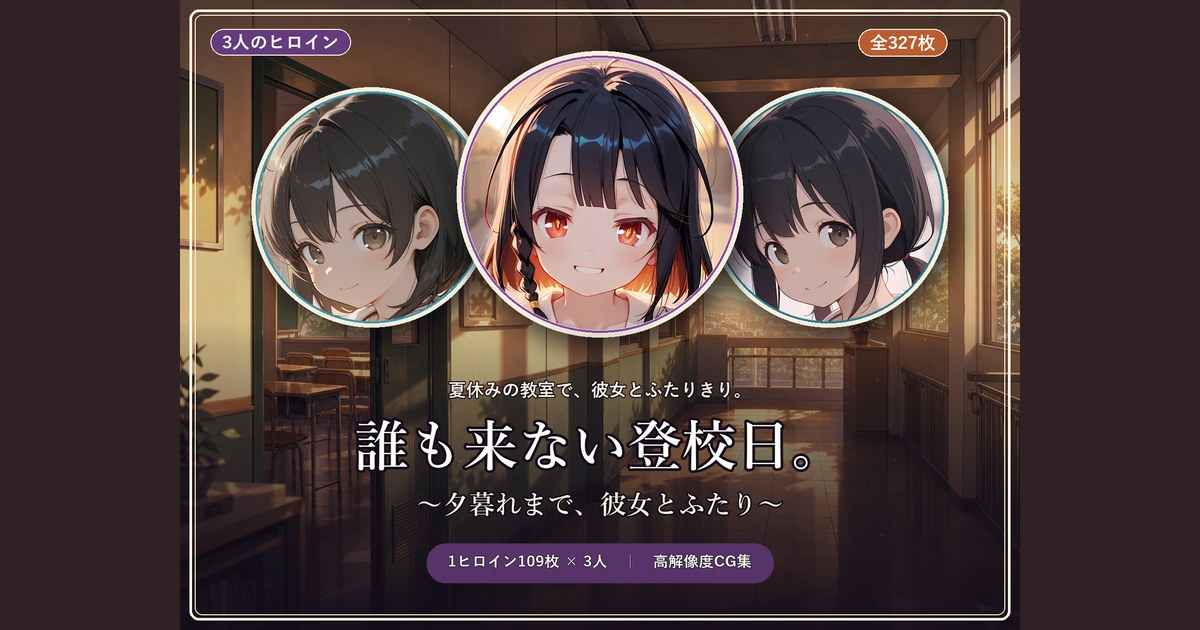
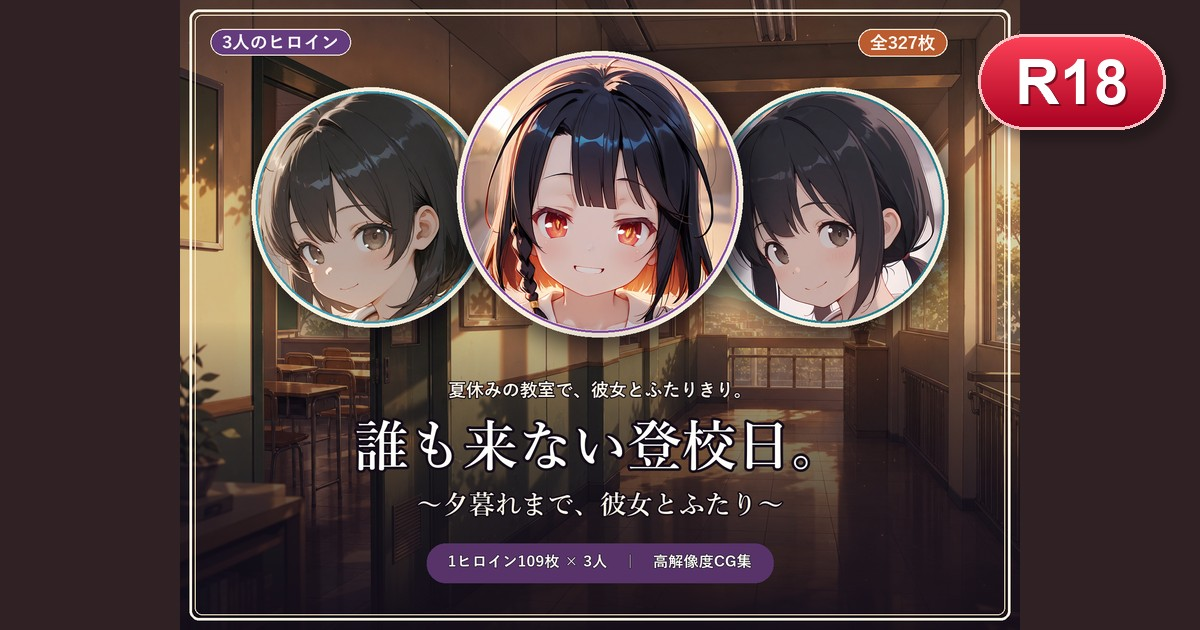
OGP(X共有画像)に R18 バッジを追加
summer-schoolday の ogp.jpg 右上にサイト同色(#ff4359→#a80020)の R18 ピルを焼き込み。
og:image/twitter:image を ?v=20260720b にバンプ(新画像を確実に配信)。

Changed region(s): [[0.8017, 0.0302, 0.9867, 0.2413]]

diff --git a/titles/summer-schoolday.html b/titles/summer-schoolday.html
@@ -11,11 +11,11 @@
     <meta property="og:title" content="誰も来ない登校日。～夕暮れまで、彼女とふたり～ | えすなむら">
     <meta property="og:description" content="夏休みの登校日、誰もいない教室で彼女とふたりきり。同じシチュエーションを3人のヒロインそれぞれで描いた物語仕立ての高解像度CG集。全327枚（1ヒロイン109枚×3人）。PromptComにて先行販売中。">
     <meta property="og:url" content="https://esunamura.com/titles/summer-schoolday.html">
-    <meta property="og:image" content="https://esunamura.com/0501_%E6%94%B9%E4%BF%AE%E8%B3%87%E6%96%99/summer-schoolday/ogp.jpg?v=20260720">
+    <meta property="og:image" content="https://esunamura.com/0501_%E6%94%B9%E4%BF%AE%E8%B3%87%E6%96%99/summer-schoolday/ogp.jpg?v=20260720b">
     <meta name="twitter:card" content="summary_large_image">
     <meta name="twitter:title" content="誰も来ない登校日。～夕暮れまで、彼女とふたり～ | えすなむら">
     <meta name="twitter:description" content="夏休みの登校日、誰もいない教室で彼女とふたりきり。同じシチュエーションを3人のヒロインそれぞれで描いた物語仕立ての高解像度CG集。全327枚（1ヒロイン109枚×3人）。PromptComにて先行販売中。">
-    <meta name="twitter:image" content="https://esunamura.com/0501_%E6%94%B9%E4%BF%AE%E8%B3%87%E6%96%99/summer-schoolday/ogp.jpg?v=20260720">
+    <meta name="twitter:image" content="https://esunamura.com/0501_%E6%94%B9%E4%BF%AE%E8%B3%87%E6%96%99/summer-schoolday/ogp.jpg?v=20260720b">
     <title>誰も来ない登校日。～夕暮れまで、彼女とふたり～ | えすなむら</title>
     <link rel="icon" type="image/png" sizes="32x32" href="images/favicon-new-32x32.png?v=2">
     <link rel="stylesheet" href="style.css?v=coral-20260716">
